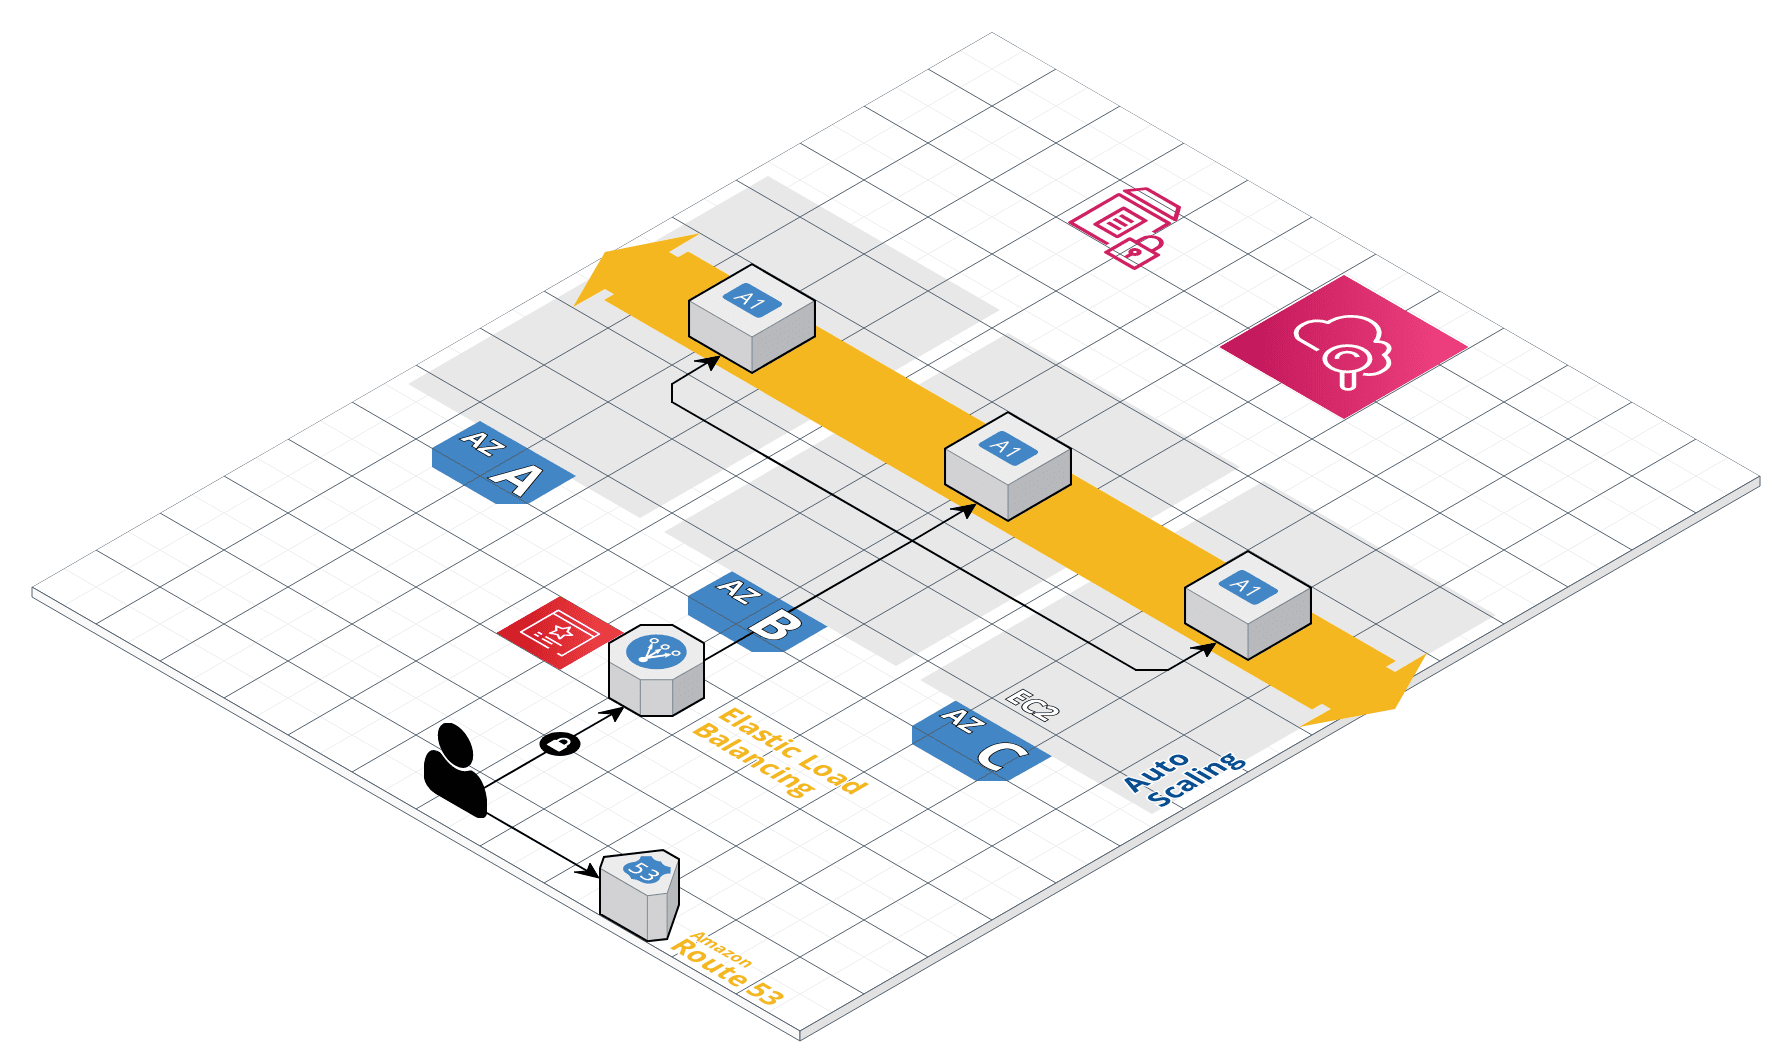
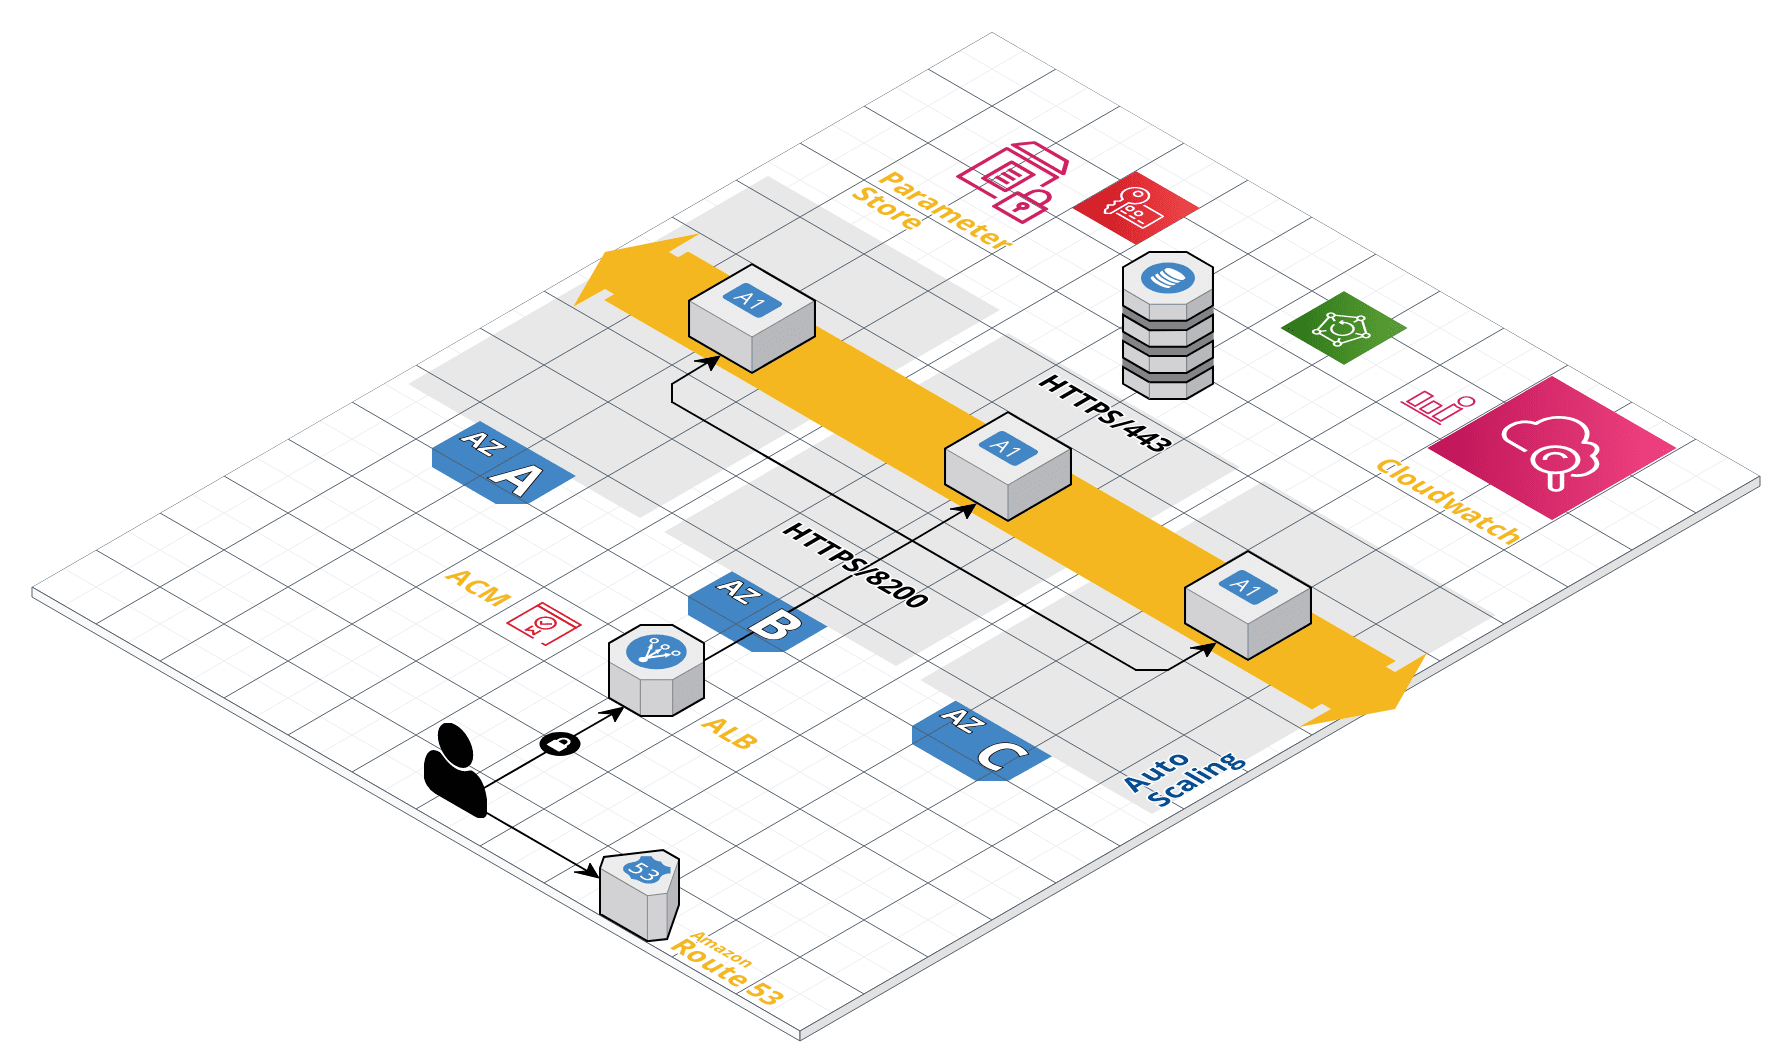
general update

diff --git a/README.md b/README.md
@@ -1,4 +1,4 @@
-# Vaul + Consul all in ONE
+# Hashicorp Vault using AWS Native
 
 ## Overview
 
@@ -10,13 +10,14 @@
   <img src="https://raw.githubusercontent.com/giuliocalzolari/terraform-aws-vault-dynamodb/master/diagram.png">
 </p>
 
-
+Created using [CloudCraft](https://app.cloudcraft.co/view/3763faa4-3c8e-4891-986c-b2d5a7dae7d7?key=OrI3ksrGOEl9PaMX42Kmag)
 
 # The solution
 
 - AWS Autoscaling group with Userdata to install Vault and AWS Cloudwatch Agent.
 - Vault with AWSKMS Auto-Unseal
 - AWS DynamoDB as backend
+- AWS Backup for DynamoDB
 - basic Vault Provisioning
 - Export of Vault sensitive parameters in AWS Paramaters Store
 - Using AWS ARM instance with a1.medium as default to save cost
@@ -25,7 +26,7 @@
 
 This module support Terraform `>= 0.12.0` tested with `0.12`, `0.13` and `0.14`
 
-# Module Input Variables
+# Module Overview
 <!-- BEGINNING OF PRE-COMMIT-TERRAFORM DOCS HOOK -->
 ## Providers
 
@@ -47,6 +48,7 @@ This module support Terraform `>= 0.12.0` tested with `0.12`, `0.13` and `0.14`
 | arch | EC2 Architecture arm64/x86\_64 (arm64 is suggested) | `string` | `"arm64"` | no |
 | aws\_region | AWS region to launch servers. | `string` | n/a | yes |
 | default\_cooldown | ASG cooldown time | `string` | `"30"` | no |
+| dynamodb\_backup | Enable AWS Backup for DynamoDB backend to have multiple RPO for the Vault | `bool` | `true` | no |
 | ec2\_subnets | ASG Subnets | `list(string)` | `[]` | no |
 | environment | Environment Name (e.g. dev, test, uat, prod, etc..) | `string` | `"dev"` | no |
 | extra\_tags | Additional Tag to add | `map(string)` | n/a | yes |
@@ -73,6 +75,7 @@ This module support Terraform `>= 0.12.0` tested with `0.12`, `0.13` and `0.14`
 |------|-------------|
 | alb\_arn | ALB ARN |
 | alb\_hostname | ALB DNS |
+| dynamodb\_arn | Dynamodb Table ARN |
 | iam\_role\_arn | IAM EC2 role ARN |
 | kms\_key\_id | KMS key ID |
 | root\_pass\_arn | SSM vault root password ARN |
@@ -139,6 +142,14 @@ pre-commit install
 pre-commit run --all-files
 ```
 
-# Issue
+# Troubleshooting / Known Issue
 
-if for some reason the ASG is not booting the terraform code get in stuck the only option is to destroy the ASG with this command ` terraform destroy -target module.vault.aws_autoscaling_group.asg `
+- Autoscaling Group not encrypted EBS volume required to have a dedicated AMI already encrypted and required to have the proper service role for ASG to be albe to encrypt/decrypt the ebs volume
+
+- ACM soft limit if you see this error `Error requesting certificate: LimitExceededException: Error: you have reached your limit of 20 certificates in the last year.` please increase the Limit using AWs Support of AWS Quota
+
+- Cloudwatch Logs Error `Error: Creating CloudWatch Log Group failed: InvalidParameterException: The specified KMS Key Id could not be found.`, double check if the KMS key have proper policy to allow the regional Cloudwatch logs Service Principle (e.g. `logs.eu-central-1.amazonaws.com`)
+
+- AWS Backup Vault can create an error (e.g. `Error: error deleting Backup Vault (test-vault-dynamodb-backup): InvalidRequestException: Backup vault cannot be deleted (contains 2 recovery points)`) if a backup is already created. Recovery point require to be mnually deleted
+
+- if for some reason the ASG is not booting the terraform code get in stuck the only option is to destroy the ASG with this command ` terraform destroy -target module.vault.aws_autoscaling_group.asg `
